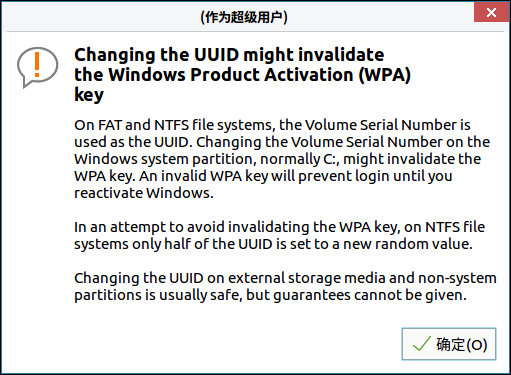
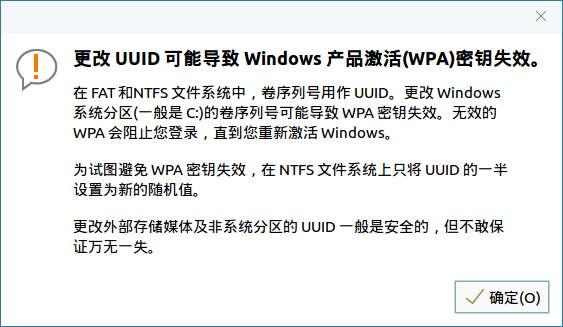
Master (#37)
* Update the icon of kysec-ui.

* Modify gparted->uuid.

Changed region(s): [[0.0, 0.0, 1.0, 1.0]]

diff --git a/data/guide/gparted/zh_CN/index.md b/data/guide/gparted/zh_CN/index.md
@@ -123,14 +123,9 @@
 ![图 19 文件系统卷标](image/19.png)
 
 #### 新UUID
-用户可以通过点击：菜单 > 分区 > 新UUID，需要注意的是更改UUID可能会验证windows产品激活密，如图20所示。
+用户可以通过点击：菜单 > 分区 > 新UUID，需要注意的是更改UUID可能会验证windows产品激活密钥，如图20所示。
 
 ![图 20 新UUID](image/20.png)
-
-提示信息：
-
-在FAT和NTFS文件系统上，卷序列号用作UUID。 更改Windows系统分区（通常为C :）上的卷序列号可能会使WPA密钥无效。无效的WPA密钥将阻止登录，直到您重新激活Windows。
-为了避免使WPA密钥无效，在NTFS文件系统上，只有一半的UUID设置为新的随机值。
 
 通常，更改外部存储介质和非系统分区上的UUID是安全的，但不能保证。
 

diff --git a/data/guide/kylin-video/zh_CN/index.md b/data/guide/kylin-video/zh_CN/index.md
@@ -65,7 +65,7 @@
 
 ![图 6 播放列表-清除方式一](image/6.png)
 
-- 方式二：用户可以通过移动鼠标，鼠标停留的位置（列表底色变深）将会出现“”图标，单击鼠标左键即可对应删除，如图7所示。
+- 方式二：用户可以通过移动鼠标，鼠标停留的位置（列表底色变深）将会出现图标，单击鼠标左键即可对应删除，如图7所示。
 
 ![图 7 播放列表-清除方式二](image/7.png)
 
